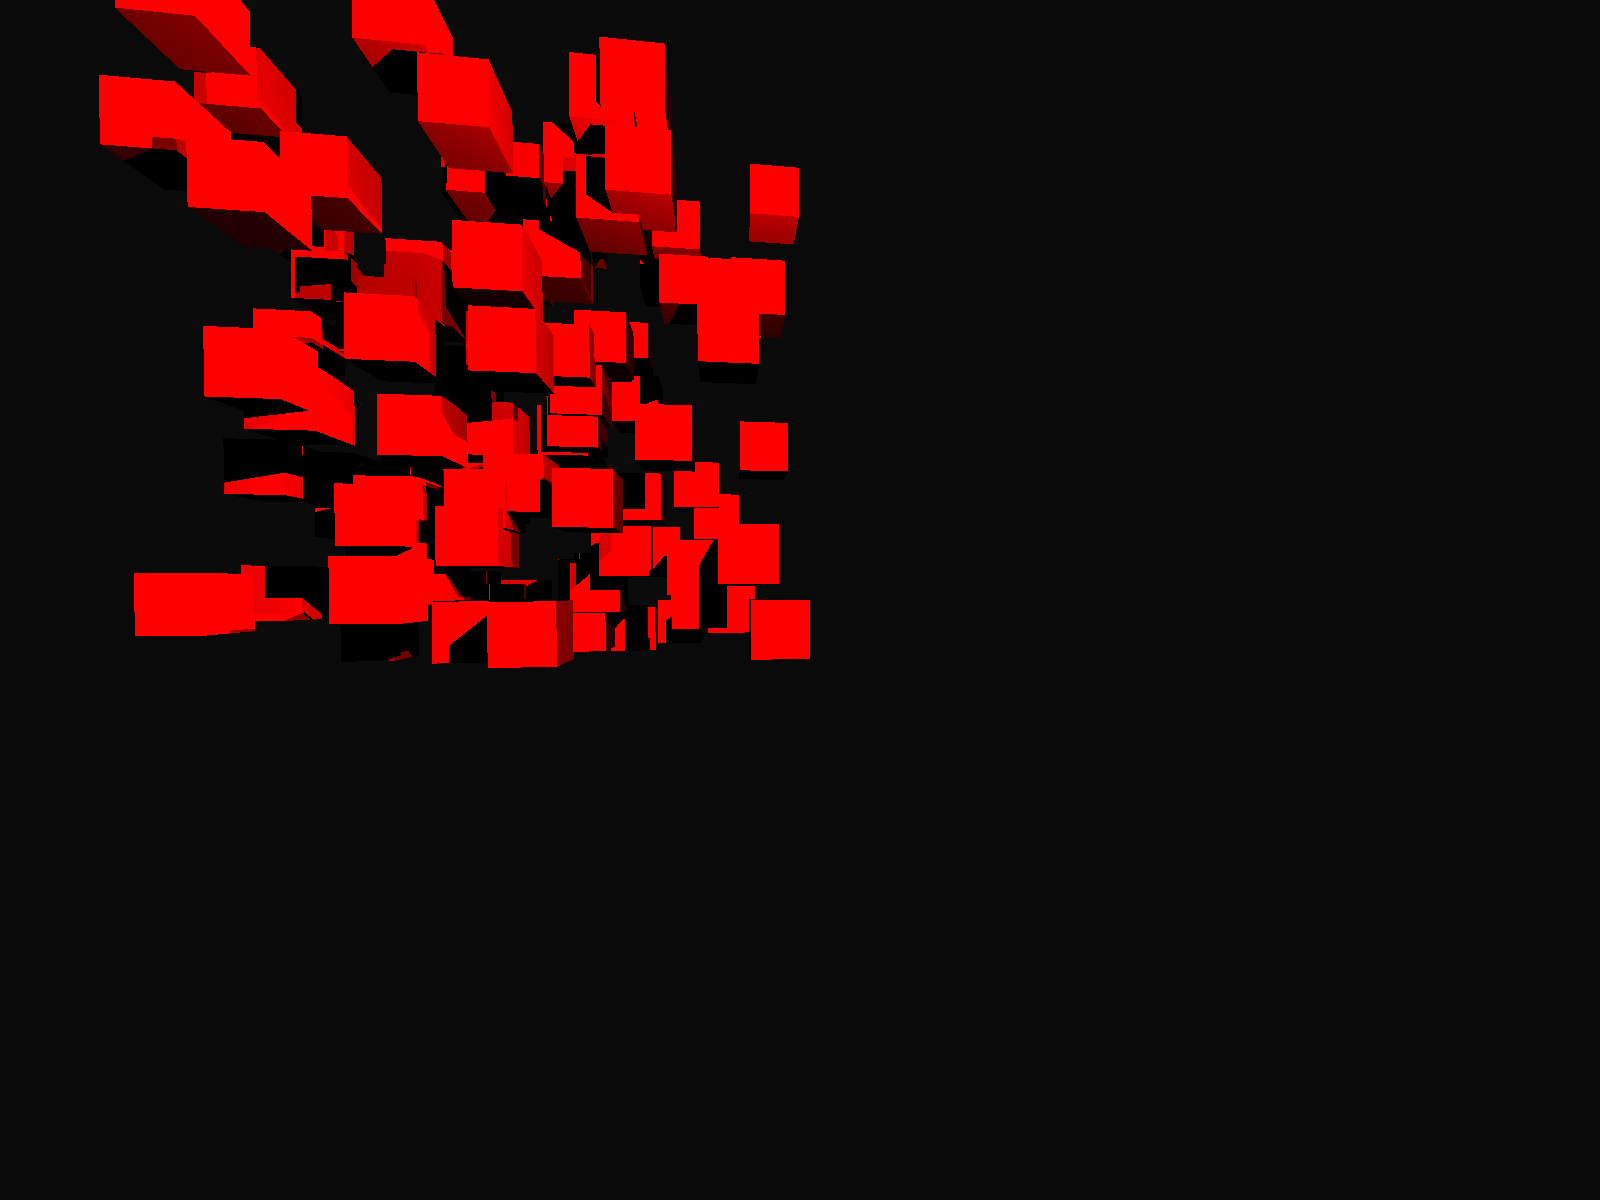
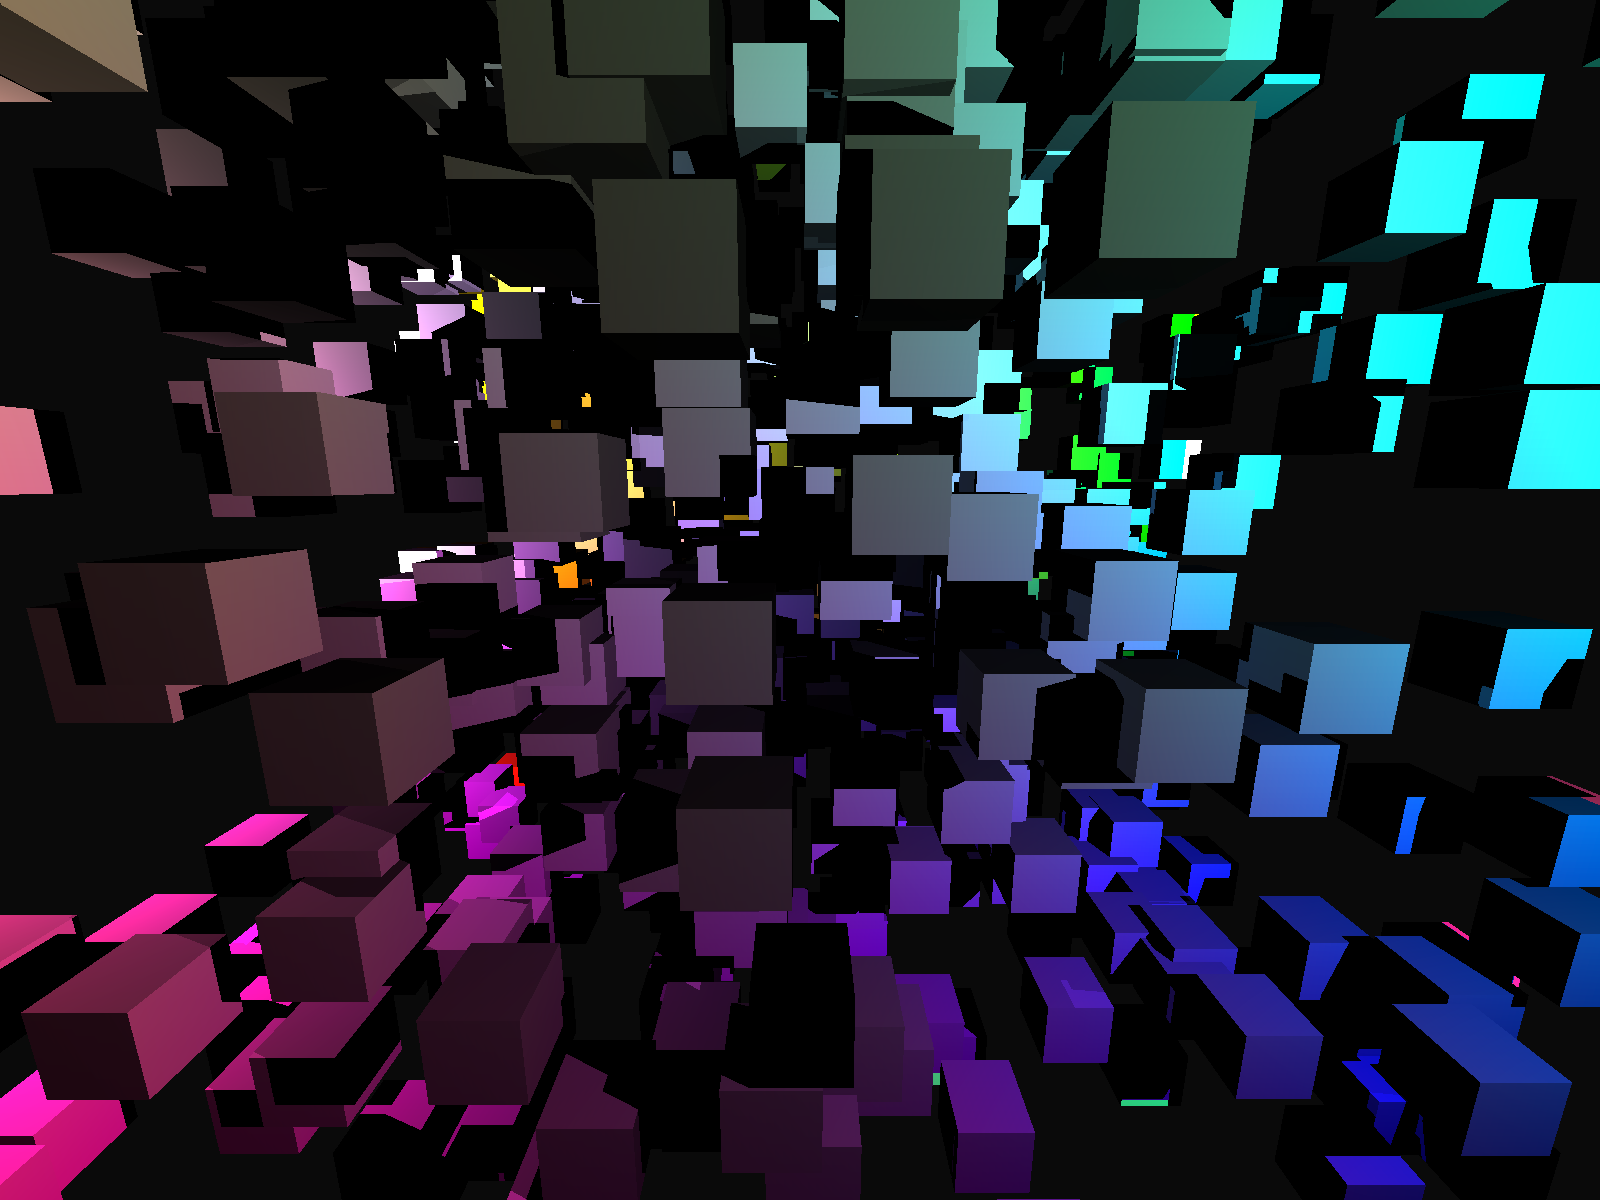
playing with materials

diff --git a/src/render/load.go b/src/render/load.go
@@ -12,7 +12,7 @@ import (
 )
 
 // LoadObj assumes filename contains one triangle mesh object
-func LoadObj(filename string, c model.Color) (model.Object, error) {
+func LoadObj(filename string, m model.Material) (model.Object, error) {
 	file, err := os.Open(filename)
 	if err != nil {
 		return nil, err
@@ -20,10 +20,10 @@ func LoadObj(filename string, c model.Color) (model.Object, error) {
 	defer file.Close()
 
 	scanner := bufio.NewScanner(file)
-	return loadObj(scanner, c)
+	return loadObj(scanner, m)
 }
 
-func loadObj(scanner *bufio.Scanner, c model.Color) (model.Object, error) {
+func loadObj(scanner *bufio.Scanner, m model.Material) (model.Object, error) {
 	var vertices []model.Vector
 	var triangles []model.Object
 	for scanner.Scan() {
@@ -43,7 +43,7 @@ func loadObj(scanner *bufio.Scanner, c model.Color) (model.Object, error) {
 			}
 			vertices = append(vertices, vertex)
 		case "f":
-			face, err := readTriangle(values, vertices, c)
+			face, err := readTriangle(values, vertices, m)
 			if err != nil {
 				return nil, err
 			}
@@ -74,7 +74,7 @@ func readVertex(coordinates []string) (model.Vector, error) {
 	return model.Vector{p1, p2, p3}, nil
 }
 
-func readTriangle(indices []string, vertices []model.Vector, c model.Color) (model.Triangle, error) {
+func readTriangle(indices []string, vertices []model.Vector, m model.Material) (model.Triangle, error) {
 	if len(indices) != 3 {
 		return model.Triangle{}, fmt.Errorf("Invalid indices: %v", indices)
 	}
@@ -102,7 +102,7 @@ func readTriangle(indices []string, vertices []model.Vector, c model.Color) (mod
 		return model.Triangle{}, fmt.Errorf("Invalid index: %d #indices: %d", i3, numVertices)
 	}
 	// TODO: coordinate handedness!
-	return model.NewTriangle(vertices[i3-1], vertices[i2-1], vertices[i1-1], c), nil
+	return model.NewTriangle(vertices[i3-1], vertices[i2-1], vertices[i1-1], m), nil
 }
 
 func toObject(triangles []model.Object) (model.Object, error) {
@@ -123,6 +123,6 @@ func centerTrianglesOnOrigin(triangles []model.Object) {
 			objectToOrigin.Point(t.P0),
 			objectToOrigin.Point(t.P1),
 			objectToOrigin.Point(t.P2),
-			t.Color)
+			t.Material)
 	}
 }

diff --git a/src/main.go b/src/main.go
@@ -27,7 +27,15 @@ func main() {
 	scene := render.NewScene(camera)
 	l1 := m.NewPointLight(m.Vector{-2, 2, 0}, m.NewColor(255, 255, 255), 500)
 	l2 := m.NewPointLight(m.Vector{-0.1, 1, -1}, m.NewColor(255, 255, 255), 400)
-	scene.AddLights(l1, l2)
+	l3 := m.NewPointLight(m.Vector{3, 2, -2}, m.NewColor(255, 255, 255), 400)
+	scene.AddLights(l1, l2, l3)
+
+	//mat := &m.DiffuseMaterial{m.NewColor(255, 0, 0)}
+	mat := &m.PosFuncMat{
+		func(p m.Vector) m.Color {
+			return m.NewColor(uint8((p.X+2)*60), uint8((p.Y)*60), uint8((-p.Z+1)*60))
+		},
+	}
 
 	c := m.Cuboid{
 		m.Vector{-0.1, 0.1, -0.1},
@@ -38,15 +46,15 @@ func main() {
 		m.Vector{0.1, -0.1, -0.1},
 		m.Vector{0.1, -0.1, 0.1},
 		m.Vector{-0.1, -0.1, 0.1},
-		m.NewColor(255, 0, 0),
+		mat,
 	}
 
 	object := m.NewComplexObject(c.Tesselate())
 	//objHeight := -object.Bound().Pmin.Y
-	for i := 0; i < 100; i++ {
-		x := rand.Float64() * 2
-		y := rand.Float64() * 2
-		z := -rand.Float64() - 2
+	for i := 0; i < 1000; i++ {
+		x := -2 + rand.Float64()*4
+		y := rand.Float64() * 4
+		z := -1 - rand.Float64()*4
 		shared := m.NewSharedObject(object, m.Translate(m.Vector{x, y, z}))
 		scene.Add(shared)
 	}
@@ -56,17 +64,17 @@ func main() {
 
 	fmt.Println("Rendering...")
 
-	//aw := render.NewAVI("out.avi", width, height)
-	from, to := m.Vector{0.2, 0.2, 0}, m.Vector{-1, 0, -10}
+	// aw := render.NewAVI("out.avi", width, height)
+	from, to := m.Vector{0, 2, 0}, m.Vector{0, 0, -10}
 	camera.LookAt(from, to, ey)
 	film := render.Render(scene, numWorkers)
 	film.SaveAsPNG("out.png")
 
-	// for i := 0; i < 15; i++ {
+	// for i := 0; i < 30; i++ {
 	// 	camera.LookAt(from, to, ey)
 	// 	film := render.Render(scene, numWorkers)
 	// 	render.AddToAVI(aw, film)
-	// 	from = from.Add(m.Vector{0.1, 0, 0.1})
+	// 	from = from.Add(m.Vector{0, 0, -0.05})
 	// }
 	// render.SaveAVI(aw)
 }

diff --git a/src/model/cube.go b/src/model/cube.go
@@ -100,16 +100,16 @@ func (b AABB) MaximumExtent() Dimension {
 
 type Cuboid struct {
 	P1, P2, P3, P4, P5, P6, P7, P8 Vector
-	Color                          Color
+	Material                       Material
 }
 
 func (c Cuboid) Tesselate() []Object {
-	F1 := Quadrilateral{c.P1, c.P2, c.P3, c.P4, c.Color}.Tesselate()
-	F2 := Quadrilateral{c.P2, c.P1, c.P5, c.P6, c.Color}.Tesselate()
-	F3 := Quadrilateral{c.P3, c.P2, c.P6, c.P7, c.Color}.Tesselate()
-	F4 := Quadrilateral{c.P4, c.P3, c.P7, c.P8, c.Color}.Tesselate()
-	F5 := Quadrilateral{c.P1, c.P4, c.P8, c.P5, c.Color}.Tesselate()
-	F6 := Quadrilateral{c.P6, c.P5, c.P8, c.P7, c.Color}.Tesselate()
+	F1 := Quadrilateral{c.P1, c.P2, c.P3, c.P4, c.Material}.Tesselate()
+	F2 := Quadrilateral{c.P2, c.P1, c.P5, c.P6, c.Material}.Tesselate()
+	F3 := Quadrilateral{c.P3, c.P2, c.P6, c.P7, c.Material}.Tesselate()
+	F4 := Quadrilateral{c.P4, c.P3, c.P7, c.P8, c.Material}.Tesselate()
+	F5 := Quadrilateral{c.P1, c.P4, c.P8, c.P5, c.Material}.Tesselate()
+	F6 := Quadrilateral{c.P6, c.P5, c.P8, c.P7, c.Material}.Tesselate()
 	return append(F1, append(F2, append(F3, append(F4, append(F5, F6...)...)...)...)...)
 }
 
@@ -126,12 +126,12 @@ func (c Cuboid) Tesselate() []Object {
 
 type Quadrilateral struct {
 	P1, P2, P3, P4 Vector
-	Color          Color
+	Material       Material
 }
 
 func (r Quadrilateral) Tesselate() []Object {
 	return []Object{
-		NewTriangle(r.P1, r.P2, r.P4, r.Color),
-		NewTriangle(r.P4, r.P2, r.P3, r.Color),
+		NewTriangle(r.P1, r.P2, r.P4, r.Material),
+		NewTriangle(r.P4, r.P2, r.P3, r.Material),
 	}
 }

diff --git a/src/model/object.go b/src/model/object.go
@@ -18,17 +18,17 @@ import (
 type Object interface {
 	Intersect(Ray) *hit
 	SurfaceNormal(point Vector) Vector
-	GetColor() Color
+	GetColor(Vector) Color
 	Bound() AABB
 }
 
 type object struct {
-	Color Color
+	Material Material
 }
 
 // to be replaced by more interesting materials info
-func (o object) GetColor() Color {
-	return o.Color
+func (o object) GetColor(p Vector) Color {
+	return o.Material.GetColor(p)
 }
 
 func ObjectsBound(objects []Object) AABB {
@@ -69,7 +69,7 @@ func (co *ComplexObject) SurfaceNormal(point Vector) Vector {
 	return Vector{}
 }
 
-func (co *ComplexObject) GetColor() Color {
+func (co *ComplexObject) GetColor(Vector) Color {
 	panic("Dont call this function!")
 	return Color{}
 }
@@ -117,8 +117,8 @@ func (so *SharedObject) SurfaceNormal(point Vector) Vector {
 	return so.object.SurfaceNormal(point)
 }
 
-func (so *SharedObject) GetColor() Color {
-	return so.object.GetColor()
+func (so *SharedObject) GetColor(p Vector) Color {
+	return so.object.GetColor(p)
 }
 
 func (so *SharedObject) Bound() AABB {

diff --git a/src/model/triangle.go b/src/model/triangle.go
@@ -88,8 +88,8 @@ func NewTriangleMesh(grid [][]Vector) []Object {
 	triangles := make([]Object, 2*(mesh.xSize-1)*(mesh.ySize-1))
 	i := 0
 
-	c1 := NewColor(50, 200, 0)
-	c2 := NewColor(50, 150, 50)
+	c1 := &DiffuseMaterial{NewColor(50, 200, 0)}
+	c2 := &DiffuseMaterial{NewColor(50, 150, 50)}
 
 	for y := 0; y < mesh.ySize-1; y++ {
 		for x := 0; x < 2*(mesh.xSize-1); x += 2 {
@@ -129,9 +129,9 @@ func (m *TriangleMesh) get(x, y int) (p0, p1, p2 Vector) {
 	return m.pointGrid[y+1][x], m.pointGrid[y+1][x+1], m.pointGrid[y][x+1]
 }
 
-func NewTriangle(p0, p1, p2 Vector, c Color) Triangle {
+func NewTriangle(p0, p1, p2 Vector, m Material) Triangle {
 	return Triangle{
-		object: object{c},
+		object: object{m},
 		P0:     p0,
 		P1:     p1,
 		P2:     p2,

diff --git a/src/render/worker_test.go b/src/render/worker_test.go
@@ -13,9 +13,9 @@ func sampleScene(b *testing.B) *Scene {
 	l1 := model.NewPointLight(model.Vector{-2, 2, 0}, model.NewColor(255, 255, 255), 300)
 	l2 := model.NewPointLight(model.Vector{-0.1, 1, 0.1}, model.NewColor(255, 255, 255), 400)
 	scene.AddLights(l1, l2)
-	scene.Add(model.NewSphere(model.Vector{3, 1, 5}, 0.5, model.NewColor(255, 100, 0)))
+	scene.Add(model.NewSphere(model.Vector{3, 1, 5}, 0.5, &model.DiffuseMaterial{model.NewColor(255, 100, 0)}))
 
-	obj, err := LoadObj("../bunny.obj", model.NewColor(255, 0, 0))
+	obj, err := LoadObj("../bunny.obj", &model.DiffuseMaterial{model.NewColor(255, 0, 0)})
 	if err != nil {
 		b.Fatalf("Error in benchmark: %s", err.Error())
 	}

diff --git a/src/render/load_test.go b/src/render/load_test.go
@@ -29,13 +29,13 @@ func TestLoadObj(t *testing.T) {
 					model.Vector{4, 5, 6},
 					model.Vector{2, 3, 4},
 					model.Vector{1.0, -0.02, 2.1754370e-002},
-					model.NewColor(255, 0, 0)),
+					&model.DiffuseMaterial{}),
 			},
 		},
 	} {
 		reader := strings.NewReader(tt.obj)
 		scanner := bufio.NewScanner(reader)
-		got, err := loadObj(scanner, model.NewColor(255, 0, 0))
+		got, err := loadObj(scanner, &model.DiffuseMaterial{})
 		if err != nil {
 			if tt.want == nil {
 				continue

diff --git a/src/model/algorithms.go b/src/model/algorithms.go
@@ -34,7 +34,7 @@ func LightContribution(ray Ray, hit *hit, l Light, as AccelerationStructure) (Co
 	lightRatio := object.SurfaceNormal(point).Dot(segment)
 	factors := standardAlbedo / math.Pi * l.Intensity(segmentLength) * facingRatio * lightRatio
 	lightColor := l.Color().Times(factors)
-	return object.GetColor().Product(lightColor), true
+	return object.GetColor(point).Product(lightColor), true
 }
 
 func pointInShadow(shadowRay Ray, as AccelerationStructure, maxDistance float64) bool {

diff --git a/src/model/material.go b/src/model/material.go
@@ -1,0 +1,22 @@
+package model
+
+type Material interface {
+	GetColor(Vector) Color
+}
+
+type DiffuseMaterial struct {
+	Color Color
+}
+
+func (dm *DiffuseMaterial) GetColor(p Vector) Color {
+	return dm.Color
+}
+
+// temporary material to play around with
+type PosFuncMat struct {
+	Func func(Vector) Color
+}
+
+func (pfm *PosFuncMat) GetColor(p Vector) Color {
+	return pfm.Func(p)
+}

diff --git a/src/model/plane.go b/src/model/plane.go
@@ -8,10 +8,10 @@ type Plane struct {
 	Normal Vector
 }
 
-func NewPlane(p Vector, u, v Vector, c Color) Plane {
+func NewPlane(p Vector, u, v Vector, m Material) Plane {
 	n := u.Cross(v).Normalize()
 	return Plane{
-		object: object{c},
+		object: object{m},
 		Point:  p,
 		Normal: n,
 	}

diff --git a/src/model/sphere.go b/src/model/sphere.go
@@ -8,9 +8,9 @@ type Sphere struct {
 	Radius float64
 }
 
-func NewSphere(o Vector, r float64, c Color) Sphere {
+func NewSphere(o Vector, r float64, m Material) Sphere {
 	return Sphere{
-		object: object{c},
+		object: object{m},
 		Center: o,
 		Radius: r,
 	}
